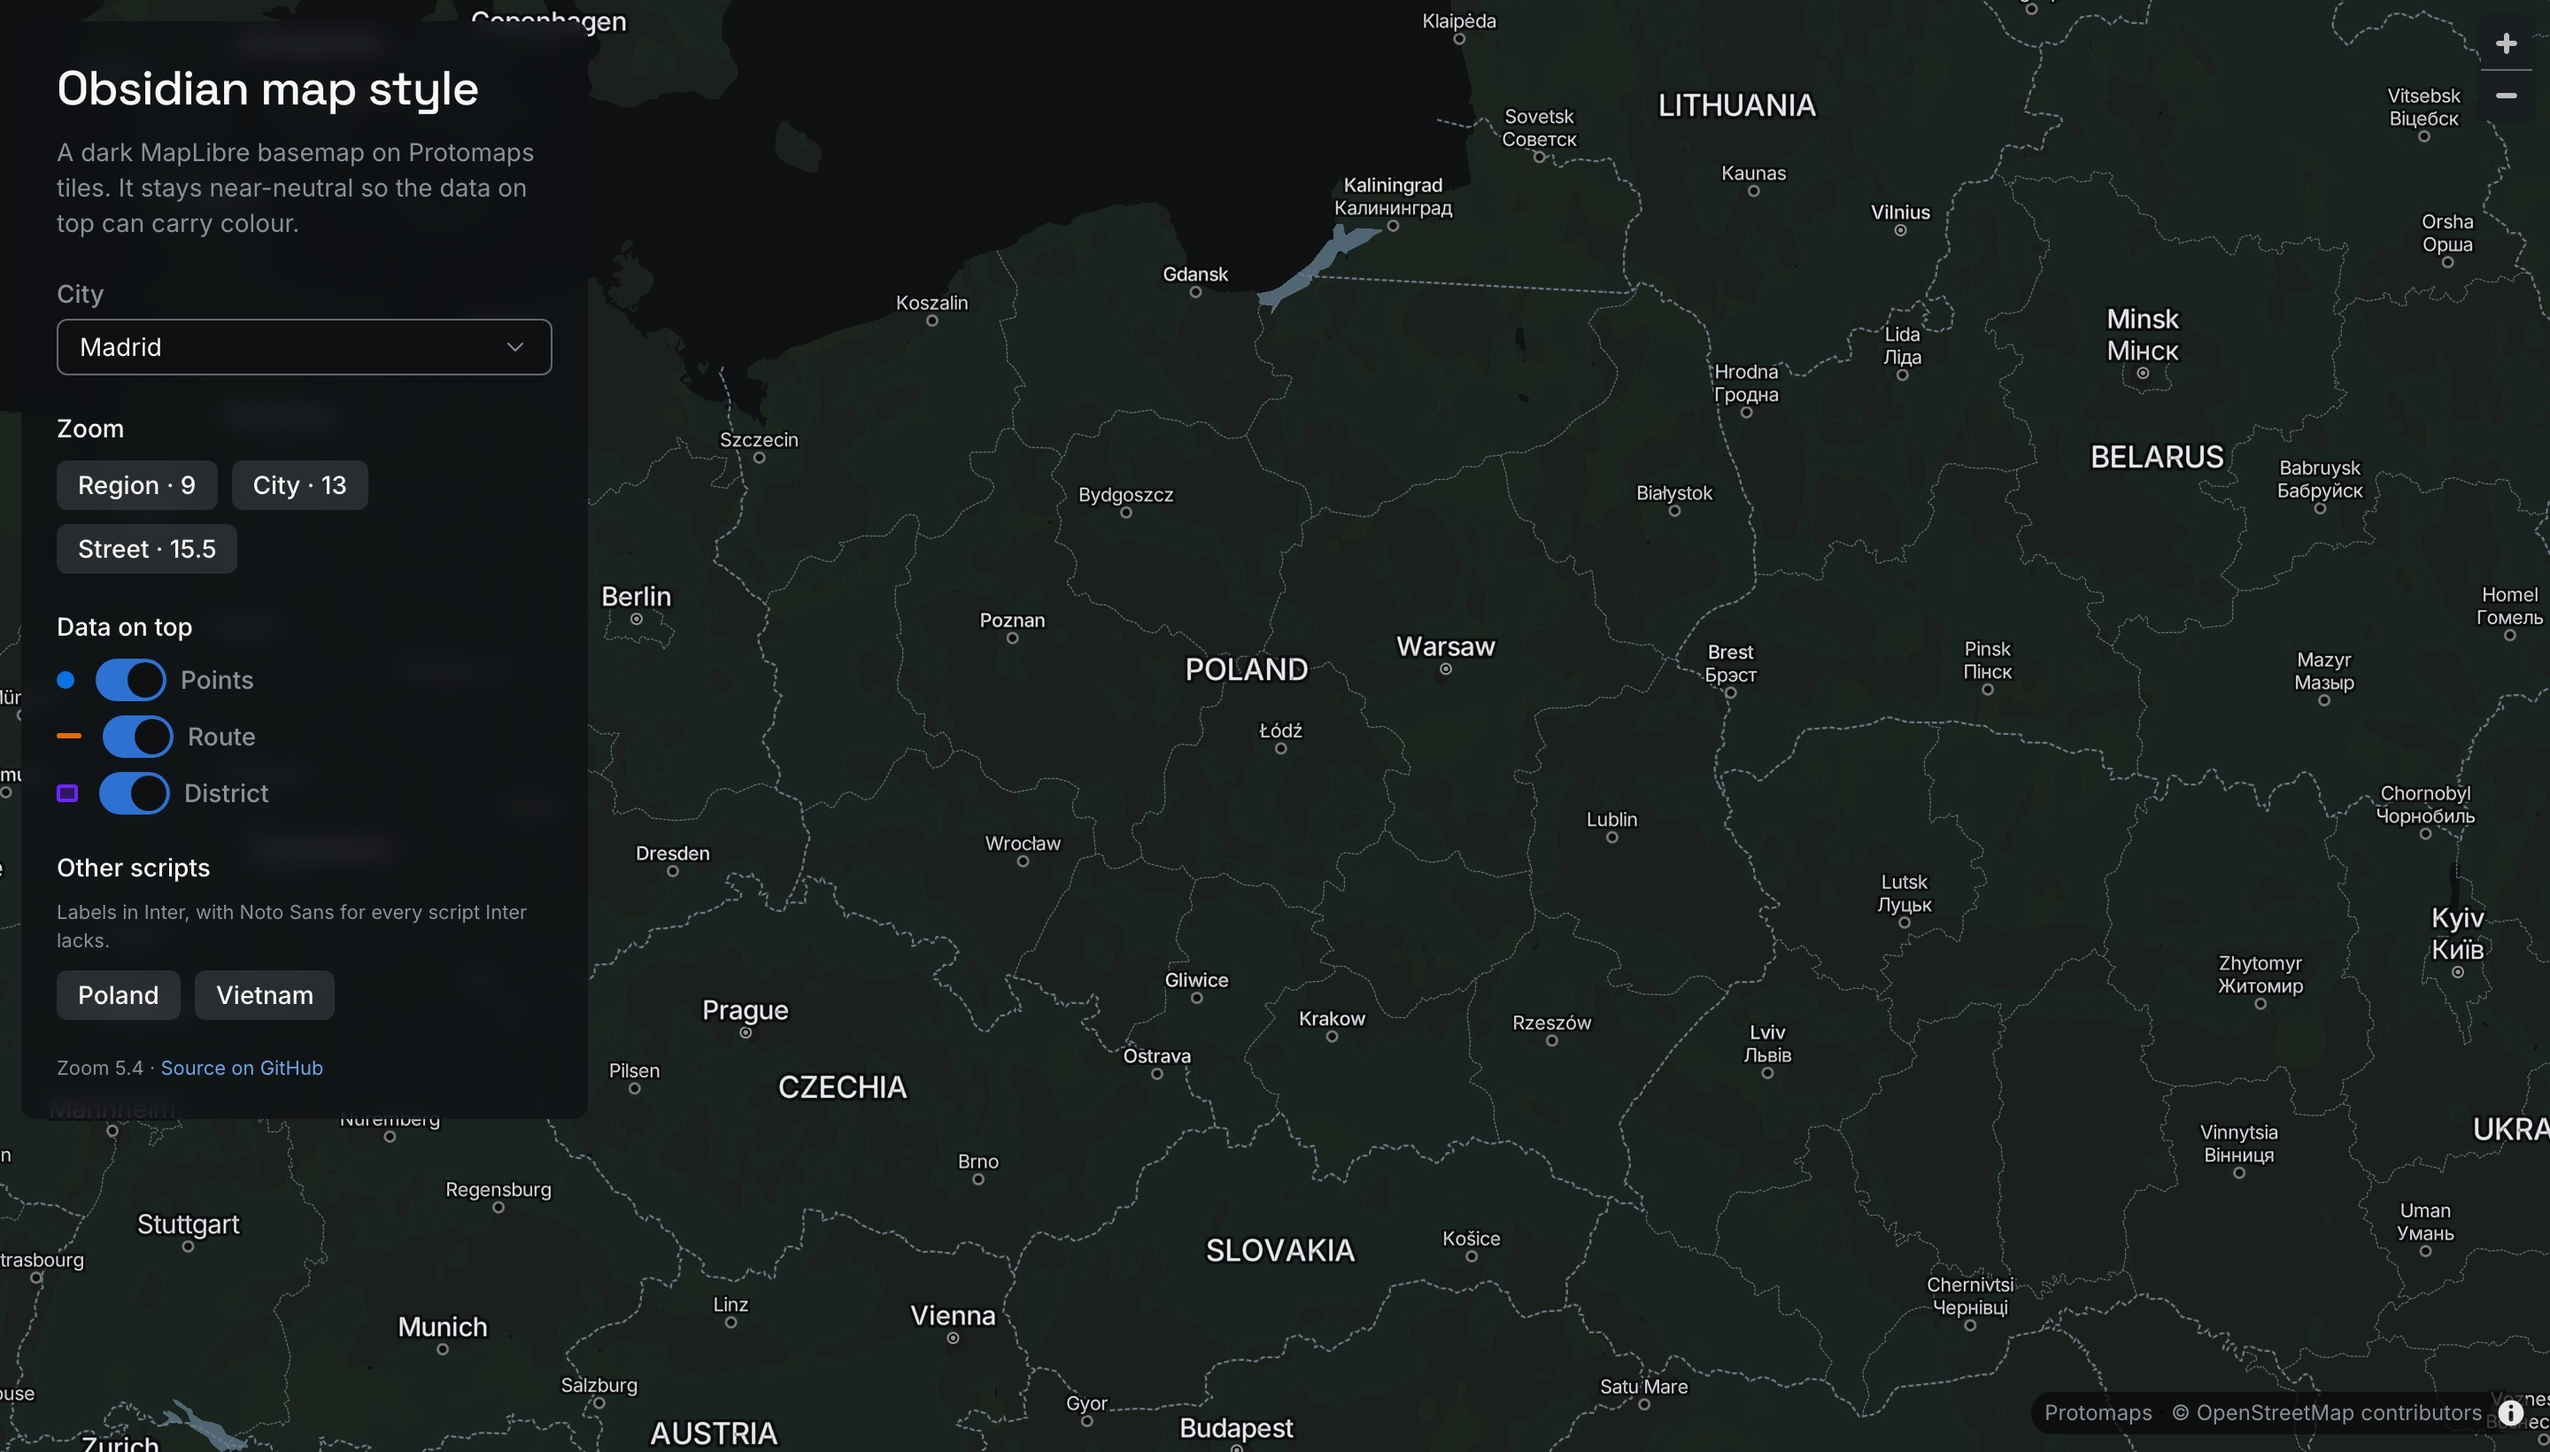
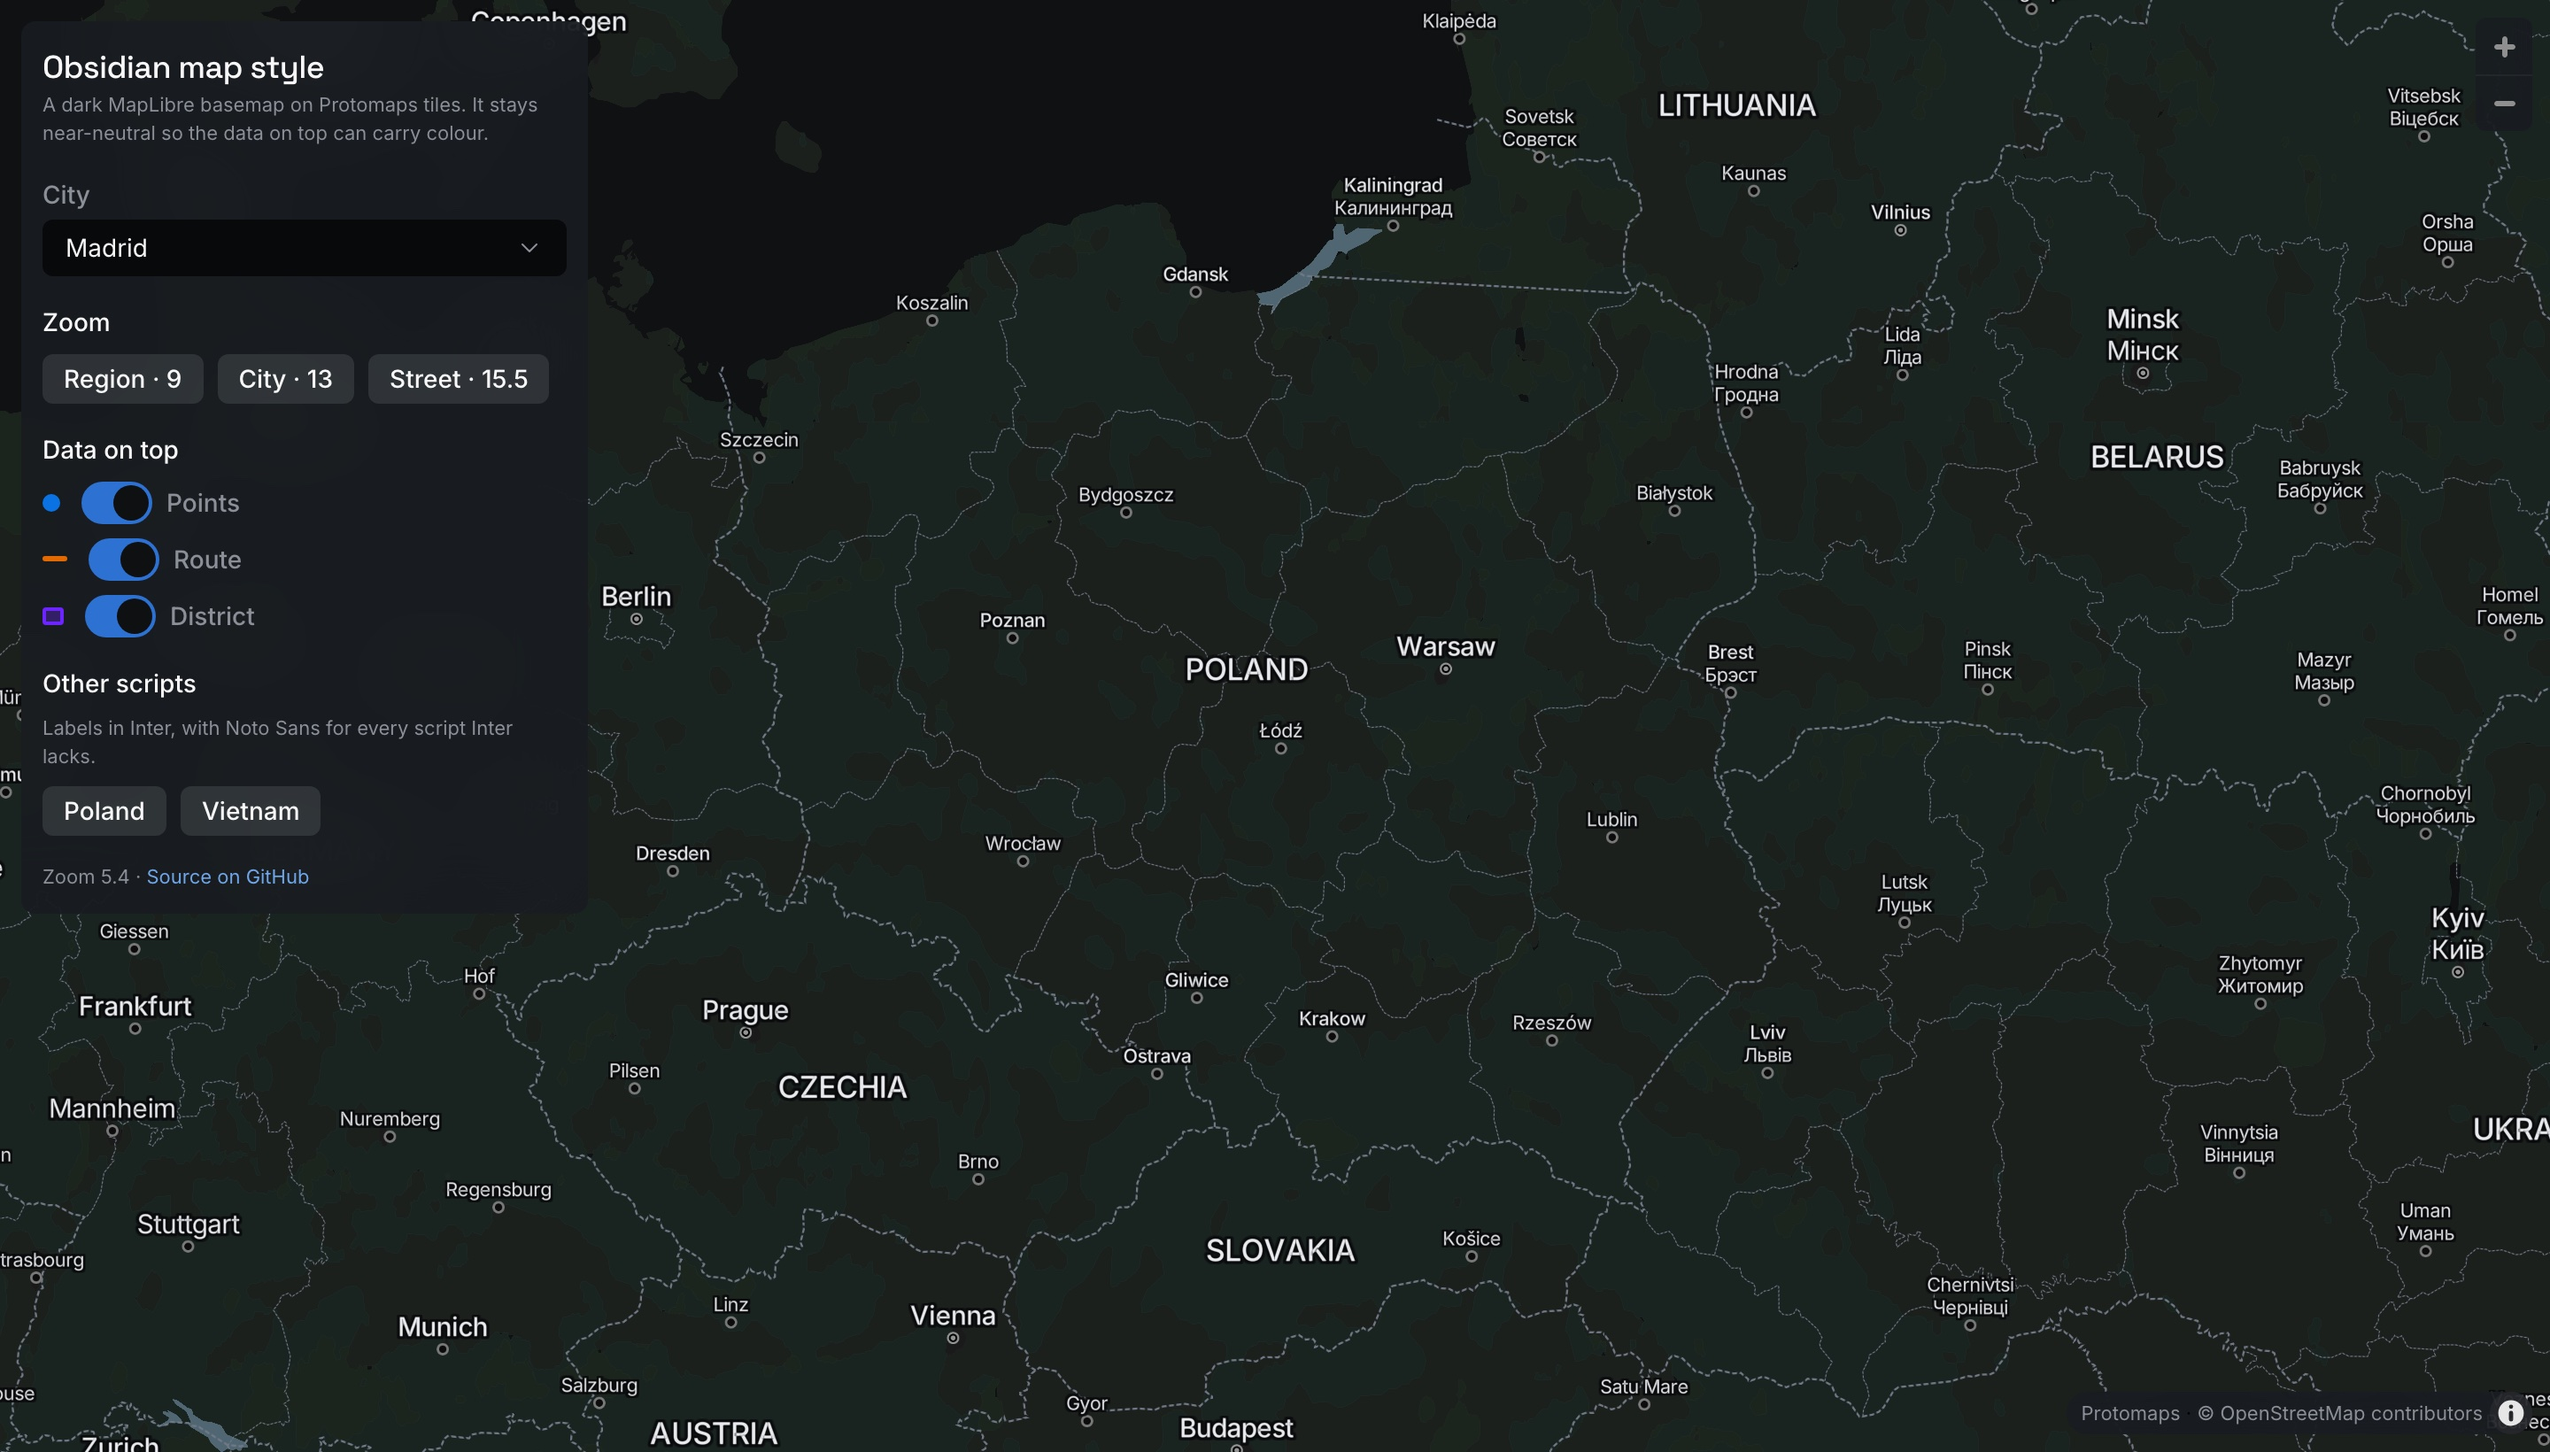
Demo panel matches the app's map panel
Back to the veil every floating surface over the map wears: 0.88 over a
20px blur. The darker, clearer glass of the last commit showed the
streets but read as a different material, and secondary text fell under
4.5:1 where it was clearer still. The panel now follows the same rules
too: 12px padding, a level-3 title with supporting text, the field as a
dark well with no border, zoom buttons as one pill in the veil with a
hairline between segments, and the attribution on the veil. README
images recaptured.

diff --git a/demo/demo.css b/demo/demo.css
@@ -12,21 +12,18 @@ body {
 }
 
 /*
- * The panel's material: dark glass. The map shows through it, darkened and
- * softened, so the panel reads as a layer over the map rather than a slab
- * cut out of it.
+ * The material every floating surface over the map wears: a dark glass veil.
+ * Large shapes behind it — water, a district, a route — show through as soft
+ * light; streets blur away, so text sits on an even ground.
  *
- * Set by contrast, not taste. The worst case is the brightest pixel the veil
- * can sit on: measured as a full-viewport veil over Madrid, Milan and Mexico
- * City at region, city and street zoom, with the sample data on. At these
- * values secondary text (#8A8F98) never falls below 4.65:1. The first version,
- * 0.88 over a 20px blur, measured 4.89:1 but blurred a city into flat grey —
- * the glass was invisible. A darker tint is what buys the lighter alpha.
- * Change one value, re-measure all three.
+ * Set by contrast, not taste: over the brightest pixel of Madrid, Milan and
+ * Mexico City at region, city and street zoom, with the sample data on,
+ * secondary text (#8A8F98) stays at 4.89:1. A clearer glass that shows the
+ * streets was tried and measured: 0.8 over a 6px blur fell to 3.9:1.
  */
 :root {
-  --veil-bg: rgba(14, 16, 19, 0.8);
-  --veil-blur: blur(6px) saturate(120%);
+  --veil-bg: rgba(24, 27, 32, 0.88);
+  --veil-blur: blur(20px) saturate(120%);
 }
 
 .demo {
@@ -49,16 +46,27 @@ body {
   box-sizing: border-box;
   display: grid;
   align-content: start;
-  gap: var(--spacing-5);
-  padding: var(--spacing-5);
-  border-radius: var(--radius-page);
+  gap: var(--spacing-4);
+  padding: var(--spacing-3);
+  border-radius: var(--radius-container);
   background: var(--veil-bg);
   backdrop-filter: var(--veil-blur);
 }
-.demo-panel-head,
+.demo-panel-head {
+  display: grid;
+}
 .demo-group {
   display: grid;
   gap: var(--spacing-2);
+}
+/* Wells hold input, lifts hold actions: on the veil a field is a dark recess
+   with no border, and buttons keep their lift. */
+.demo-panel .astryx-selector {
+  background-color: var(--color-background-body);
+  border-color: transparent;
+}
+.demo-panel .astryx-selector:hover {
+  background-color: var(--color-background-surface);
 }
 .demo-row {
   display: flex;
@@ -99,22 +107,43 @@ body {
 .maplibregl-map {
   font-family: var(--font-family-body);
 }
-.maplibregl-ctrl-group {
-  background: var(--color-background-popover);
+/* The zoom buttons: one pill in the veil, segments divided by a hairline,
+   filled only on hover. No shadow: depth is light. */
+.maplibregl-ctrl-group:not(:empty) {
+  overflow: hidden;
+  border-radius: var(--radius-element);
+  background: var(--veil-bg);
+  backdrop-filter: var(--veil-blur);
   box-shadow: none;
 }
+.maplibregl-ctrl-group button {
+  width: 32px;
+  height: 32px;
+  transition: background-color var(--duration-fast) var(--ease-standard);
+}
 .maplibregl-ctrl-group button + button {
-  border-top-color: var(--color-border-emphasized);
+  border-top: 1px solid var(--color-border);
+}
+.maplibregl-ctrl-group button:not(:disabled):hover {
+  background-color: var(--color-overlay-hover);
 }
 .maplibregl-ctrl-icon {
-  filter: invert(0.9);
+  filter: invert(0.6);
 }
+/* The attribution is a licence condition, so it stays readable: secondary
+   ink on the veil, not a bright pill. */
 .maplibregl-ctrl-attrib {
-  background: rgba(8, 9, 10, 0.75) !important;
+  border-radius: var(--radius-inner);
+  background: var(--veil-bg) !important;
+  backdrop-filter: var(--veil-blur);
   color: var(--color-text-secondary);
+  font-size: 11px;
 }
 .maplibregl-ctrl-attrib a {
   color: var(--color-text-secondary);
+}
+.maplibregl-ctrl-attrib a:hover {
+  color: var(--color-text-primary);
 }
 .maplibregl-ctrl-attrib-button {
   filter: invert(0.9);
@@ -128,8 +157,6 @@ body {
     right: var(--spacing-2);
     width: auto;
     max-height: 46%;
-    gap: var(--spacing-4);
-    padding: var(--spacing-4);
   }
 }
 
@@ -155,7 +182,7 @@ body {
   align-content: center;
   gap: var(--spacing-5);
   padding: var(--spacing-8);
-  border-radius: var(--radius-page);
+  border-radius: var(--radius-container);
   background: var(--veil-bg);
   backdrop-filter: var(--veil-blur);
 }
@@ -180,7 +207,8 @@ body {
   bottom: 0;
   padding: var(--spacing-1) var(--spacing-3);
   border-top-left-radius: var(--radius-inner);
-  background: rgba(8, 9, 10, 0.85);
+  background: var(--veil-bg);
+  backdrop-filter: var(--veil-blur);
   color: var(--color-text-secondary);
   font: var(--font-weight-normal) var(--font-size-sm) var(--font-family-body);
 }

diff --git a/demo/main.tsx b/demo/main.tsx
@@ -177,8 +177,10 @@ function Demo() {
       <div ref={container} className="demo-map" />
       <aside className="demo-panel" aria-label="Map style controls">
         <div className="demo-panel-head">
-          <Heading level={1}>Obsidian map style</Heading>
-          <Text color="secondary">
+          <Heading level={3} accessibilityLevel={1}>
+            Obsidian map style
+          </Heading>
+          <Text type="supporting">
             A dark MapLibre basemap on Protomaps tiles. It stays near-neutral so the data on top
             can carry colour.
           </Text>
@@ -268,8 +270,8 @@ const BANNER_VIEW: Record<City, {center: [number, number]; zoom: number}> = {
  * Banner data, laid out in screen pixels and projected onto whatever the map
  * shows, so the composition holds whichever city is behind it: an area in the
  * upper right, a route sweeping across, points along it. The route and two
- * points start under the panel, clear of its text, so the glass has something
- * to show through it.
+ * points run on under the panel, clear of its text, as data does under the
+ * panel in the demo.
  */
 function bannerData(m: maplibregl.Map) {
   const at = ([x, y]: [number, number]) => m.unproject([x * K, y * K]).toArray();
